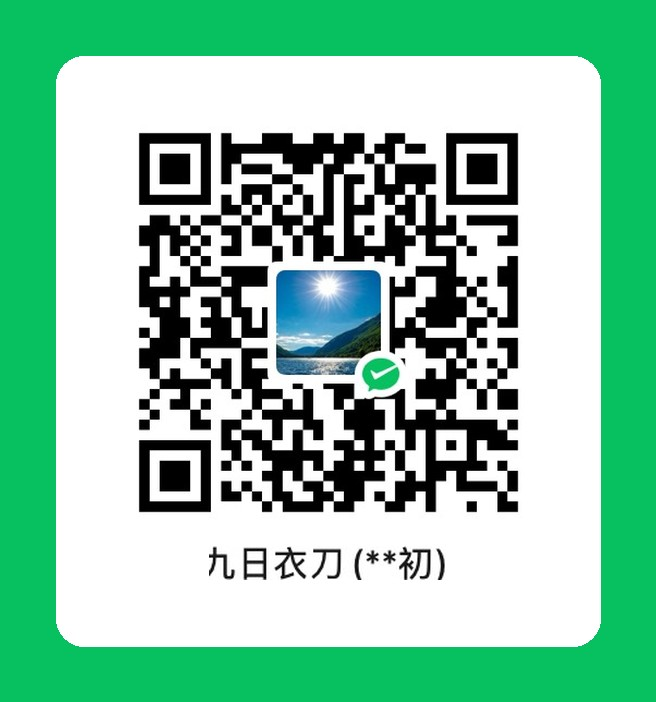
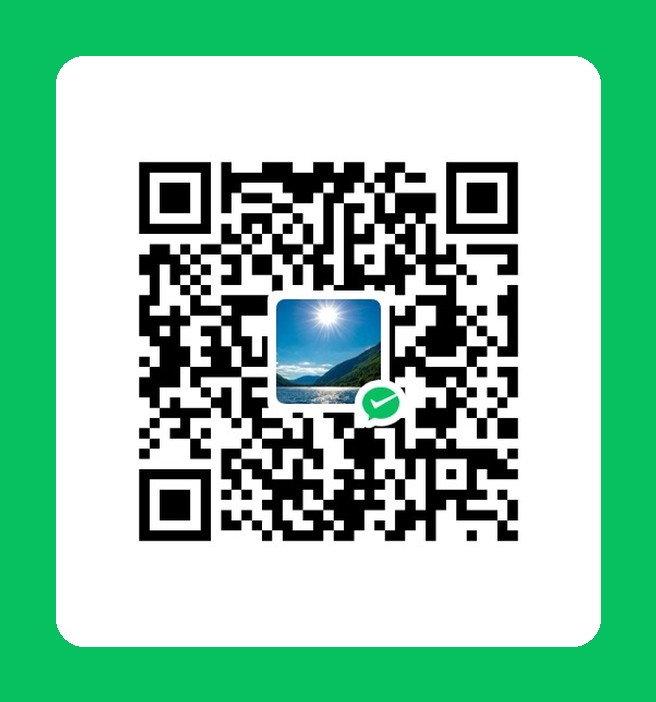
Remove captions from sponsor QR codes, center QR

Changed region(s): [[0.2134, 0.1795, 0.7927, 0.8376]]

diff --git a/README.md b/README.md
@@ -306,7 +306,7 @@ FocusQuota 完全免费，也永远免费。如果你觉得它帮你管住了刷
 
 | 微信 | 支付宝 |
 | --- | --- |
-| <img src="sponsor/wechat.jpg?v=3" width="200"> | <img src="sponsor/alipay.jpg?v=5" width="200"> |
+| <img src="sponsor/wechat.jpg?v=4" width="200"> | <img src="sponsor/alipay.jpg?v=6" width="200"> |
 
 赞助完全自愿，不影响任何功能。
 
